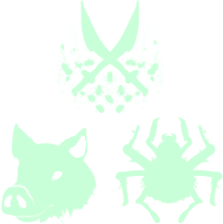
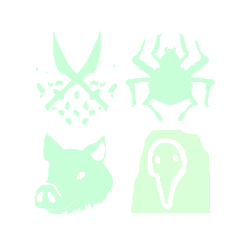
add marker boss

diff --git a/src/containers/map/markerBoss/style.css b/src/containers/map/markerBoss/style.css
@@ -1,0 +1,108 @@
+.marker-base.marker-boss {
+  background-image: url(../../../assets/markers/boss-all.png);
+  background-size: 30px;
+}
+
+.marker-base.marker-boss-all {
+  width: 50px !important;
+  height: 50px !important;
+  margin-left: -25px !important;
+  margin-top: -25px !important;
+  background-size: 50px;
+  background-position: 1px 1px;
+  background-image: url(../../../assets/markers/boss-all.png);
+}
+
+.marker-base.marker-boss-as {
+  width: 40px !important;
+  height: 40px !important;
+  margin-left: -20px !important;
+  margin-top: -20px !important;
+  background-size: 38px;
+  background-position: 2px 9px;
+  background-image: url(../../../assets/markers/boss-as.png);
+}
+
+.marker-base.marker-boss-ab {
+  width: 40px !important;
+  height: 40px !important;
+  margin-left: -20px !important;
+  margin-top: -20px !important;
+  background-size: 38px;
+  background-position: 2px 9px;
+  background-image: url(../../../assets/markers/boss-ab.png);
+}
+
+.marker-base.marker-boss-bs {
+  width: 40px !important;
+  height: 40px !important;
+  margin-left: -20px !important;
+  margin-top: -20px !important;
+  background-size: 38px;
+  background-position: 2px 9px;
+  background-image: url(../../../assets/markers/boss-bs.png);
+}
+
+.marker-base.marker-boss-hs {
+  width: 40px !important;
+  height: 40px !important;
+  margin-left: -20px !important;
+  margin-top: -20px !important;
+  background-size: 38px;
+  background-position: 2px 9px;
+  background-image: url(../../../assets/markers/boss-hs.png);
+}
+
+.marker-base.marker-boss-ah {
+  width: 40px !important;
+  height: 40px !important;
+  margin-left: -20px !important;
+  margin-top: -20px !important;
+  background-size: 38px;
+  background-position: 2px 9px;
+  background-image: url(../../../assets/markers/boss-ah.png);
+}
+
+.marker-base.marker-boss-ah {
+  width: 40px !important;
+  height: 40px !important;
+  margin-left: -20px !important;
+  margin-top: -20px !important;
+  background-size: 38px;
+  background-position: 2px 9px;
+  background-image: url(../../../assets/markers/boss-ah.png);
+}
+
+.marker-base.marker-boss-hb {
+  width: 40px !important;
+  height: 40px !important;
+  margin-left: -20px !important;
+  margin-top: -20px !important;
+  background-size: 38px;
+  background-position: 2px 9px;
+  background-image: url(../../../assets/markers/boss-hb.png);
+}
+
+.marker-base.marker-boss-a {
+  background-image: url(../../../assets/markers/boss-a.png);
+  background-size: 25px;
+  background-position: 3px 3px;
+}
+
+.marker-base.marker-boss-b {
+  background-image: url(../../../assets/markers/boss-b.png);
+  background-size: 21px;
+  background-position: 5px 3px;
+}
+
+.marker-base.marker-boss-s {
+  background-image: url(../../../assets/markers/boss-s.png);
+  background-size: 25px;
+  background-position: 3px 3px;
+}
+
+.marker-base.marker-boss-h {
+  background-image: url(../../../assets/markers/boss-h.png);
+  background-size: 25px;
+  background-position: 3px 3px;
+}

diff --git a/src/containers/map/markerBoss/index.tsx b/src/containers/map/markerBoss/index.tsx
@@ -1,0 +1,60 @@
+import * as L from 'leaflet';
+import { useState } from 'react';
+import { Marker, Tooltip, Circle } from 'react-leaflet';
+import { useTranslation } from 'react-i18next';
+
+import type { LatLngTuple } from 'leaflet';
+import type { TypeFeatureMarker } from '../markerBase/types';
+
+import './style.css';
+
+const DETECTION_HUNT = 50;
+const DARK_VISION = 100;
+
+type Props = { feature: TypeFeatureMarker };
+
+export const MarkerBoss = ({ feature }: Props) => {
+  const [hover, setHover] = useState(false);
+  const { t } = useTranslation();
+  const { geometry, properties } = feature;
+  const { coordinates } = geometry;
+  const { title, marker } = properties;
+
+  const icon = L.divIcon({
+    className: 'marker-base marker-' + marker,
+  });
+
+  return (
+    <Marker
+      position={coordinates as LatLngTuple}
+      icon={icon}
+      eventHandlers={{
+        mouseover: () => setHover((v) => !v),
+        mouseout: () => setHover((v) => !v),
+      }}
+    >
+      {hover ? (
+        <>
+          <Circle
+            center={coordinates as LatLngTuple}
+            radius={DARK_VISION}
+            color="darkorange"
+            fillColor="darkorange"
+            fillOpacity={0.03}
+            dashArray={[20, 15]}
+          />
+          <Circle
+            center={coordinates as LatLngTuple}
+            radius={DETECTION_HUNT}
+            color="white"
+            fillColor="white"
+            fillOpacity={0.03}
+            dashArray={[20, 15]}
+          />
+        </>
+      ) : null}
+
+      <Tooltip>{t(`types.${title}`)}</Tooltip>
+    </Marker>
+  );
+};

diff --git a/src/containers/map/index.tsx b/src/containers/map/index.tsx
@@ -4,6 +4,7 @@ import { useAppSelector } from '../../hooks/redux-toolkit';
 import { TileLayerMap } from './tileLayer';
 import { MarkerLabel } from './markerLabel';
 import { MarkerSpawnPlayer } from './markerSpawnPlayer';
+import { MarkerBoss } from './markerBoss';
 
 import {
   selectViewMap,
@@ -19,8 +20,9 @@ import { markers } from '../../data';
 
 import type { TypeFeatureMarker } from './markerBase/types';
 
-import './style.css';
 import './markerBase/style.css';
+import './tooltip/style.css';
+import './style.css';
 
 export const Map = () => {
   const idMaps = useAppSelector(selectIdMaps);
@@ -30,17 +32,14 @@ export const Map = () => {
   const { width, height } = useAppSelector(selectOptionsViewMap).image;
   const { id: idMap } = useAppSelector(selectViewMap);
 
-  // console.log(optionsMap);
-  // console.log(filters.includes('label'));
-
   const switchTypeMarkers = (v: TypeFeatureMarker, i: number) => {
-    console.log(v.properties.title);
-
     switch (v.properties.title) {
       case 'label':
         return <MarkerLabel feature={v} key={i} />;
       case 'spawn-player':
         return <MarkerSpawnPlayer feature={v} key={i} />;
+      case 'boss':
+        return <MarkerBoss feature={v} key={i} />;
       default:
         return null;
     }

diff --git a/src/containers/map/markerSpawnPlayer/index.tsx b/src/containers/map/markerSpawnPlayer/index.tsx
@@ -10,7 +10,7 @@ import './style.css';
 type Props = { feature: TypeFeatureMarker };
 
 export const MarkerSpawnPlayer = ({ feature }: Props) => {
-  const { t } = useTranslation().i18n;
+  const { t } = useTranslation();
   const { geometry, properties } = feature;
   const { coordinates } = geometry;
   const { title, marker } = properties;
@@ -21,9 +21,7 @@ export const MarkerSpawnPlayer = ({ feature }: Props) => {
 
   return (
     <Marker position={coordinates as LatLngTuple} icon={icon}>
-      <Tooltip>{651651}</Tooltip>
-      {/* t(`types.${title}`) */}
+      <Tooltip>{t(`types.${title}`)}</Tooltip>
     </Marker>
   );
 };
-

diff --git a/src/containers/map/markerBase/style.css b/src/containers/map/markerBase/style.css
@@ -1,17 +1,13 @@
-.leaflet-marker-icon {
-  /* размер по умолчанию */
+.marker-base {
+  /* important потому что либа в инлайн пишет */
   width: 30px !important;
   height: 30px !important;
-  /* центр */
   margin-left: -15px !important;
   margin-top: -15px !important;
 
-  background-repeat: no-repeat;
-
   color: var(--color-1);
-}
 
-.marker-base {
+  background-repeat: no-repeat;
   background-color: rgba(0, 0, 0, 0.15);
   background-color: rgba(0, 0, 0, 0.7);
   border-radius: 50%;

diff --git a/src/containers/map/tooltip/style.css b/src/containers/map/tooltip/style.css
@@ -1,0 +1,14 @@
+.leaflet-tooltip {
+  color: var(--color-1);
+  background: var(--bg-color-1);
+  border: 1px solid var(--bg-color-1);
+  text-transform: capitalize;
+}
+
+.leaflet-tooltip-right::before {
+  border-right-color: var(--bg-color-1);
+}
+
+.leaflet-tooltip-left::before {
+  border-left-color: var(--bg-color-1);
+}

diff --git a/src/containers/map/markerSpawnPlayer/style.css b/src/containers/map/markerSpawnPlayer/style.css
@@ -3,5 +3,4 @@
   background-repeat: no-repeat;
   background-size: 20px;
   background-position: 4px 5px;
-  filter: drop-shadow(2px 2px 2px #000000) grayscale(3) brightness(1.1);
 }
